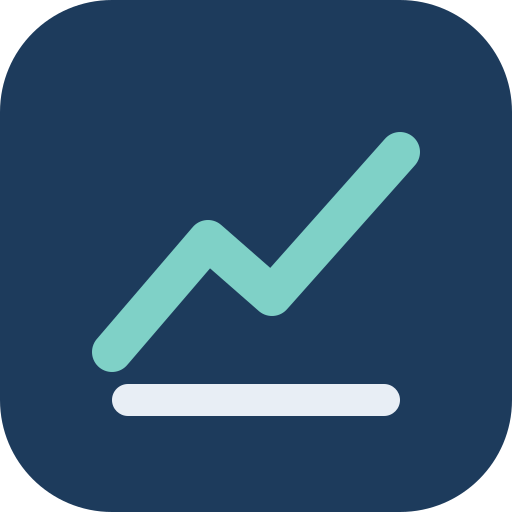
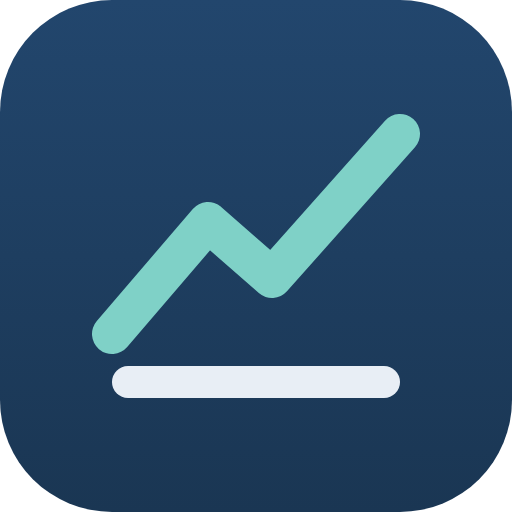
feat(tradeboard): installable app and a phone-friendly portal
The portal is now a PWA: web app manifest (standalone, "Plan Board"),
192/512 icons plus maskable versions inside the safe zone, a full-bleed
apple-touch-icon so iOS doesn't show black corners, and a service
worker that only serves an offline page. It never caches pages or API
responses, so a plan or approval is never shown stale.

On phones the header is one row with a menu button that opens the nav
as a panel (Agents, Account and Sign out were scrolled out of sight),
fields use 16px text so iOS doesn't zoom on focus, small links and
buttons get 36px touch targets, and the header, footer, page edges and
toasts respect the notch and home-indicator safe areas.

Claude-Session: https://claude.ai/code/session_01DzgUvHFYtbF675YjXwu6tH

Changed region(s): [[0.1562, 0.2188, 0.8438, 0.8125]]

diff --git a/projects/tradeboard/services/web/src/style.css b/projects/tradeboard/services/web/src/style.css
@@ -26,7 +26,7 @@
   }
 }
 * { box-sizing: border-box; }
-html { -webkit-text-size-adjust: 100%; }
+html { -webkit-text-size-adjust: 100%; -webkit-tap-highlight-color: transparent; }
 body {
   margin: 0; min-height: 100vh; display: flex; flex-direction: column; color: var(--fg);
   background: radial-gradient(1200px 420px at 50% -120px, var(--bg-glow), transparent 70%), var(--bg);
@@ -45,7 +45,7 @@ time, .kv dd, table.grid td, .meta { font-variant-numeric: tabular-nums; }
 code, pre, .mono { font-family: "SF Mono", ui-monospace, Menlo, monospace; font-size: .88em; }
 code { background: var(--bg2); padding: .12em .4em; border-radius: 6px; overflow-wrap: anywhere; }
 pre.block { background: var(--bg2); border: 1px solid var(--line); border-radius: var(--radius-sm); padding: 12px 14px; overflow-x: auto; white-space: pre-wrap; word-break: break-word; margin: 0 0 10px; }
-.wrap { max-width: 1080px; margin: 0 auto; padding: 0 20px; }
+.wrap { max-width: 1080px; margin: 0 auto; padding: 0 max(20px, env(safe-area-inset-right)) 0 max(20px, env(safe-area-inset-left)); }
 .narrow { max-width: 760px; }
 .muted { color: var(--muted); }
 .small { font-size: 13.5px; }
@@ -63,7 +63,7 @@ pre.block { background: var(--bg2); border: 1px solid var(--line); border-radius
 #app > h1 + p { margin-top: -8px; max-width: 70ch; }
 
 /* Header */
-.site-header { position: sticky; top: 0; z-index: 10; background: color-mix(in srgb, var(--bg) 78%, transparent); backdrop-filter: saturate(180%) blur(16px); -webkit-backdrop-filter: saturate(180%) blur(16px); border-bottom: 1px solid var(--line); }
+.site-header { position: sticky; top: 0; z-index: 10; padding-top: env(safe-area-inset-top); background: color-mix(in srgb, var(--bg) 78%, transparent); backdrop-filter: saturate(180%) blur(16px); -webkit-backdrop-filter: saturate(180%) blur(16px); border-bottom: 1px solid var(--line); }
 .site-header .wrap { display: flex; align-items: center; justify-content: space-between; gap: 6px 16px; min-height: 60px; }
 .brand { display: flex; align-items: center; gap: 10px; font-weight: 720; font-size: 15.5px; letter-spacing: -.01em; color: var(--fg); white-space: nowrap; }
 .brand:hover { text-decoration: none; }
@@ -74,7 +74,7 @@ pre.block { background: var(--bg2); border: 1px solid var(--line); border-radius
 .site-header nav a[aria-current=page] { color: var(--fg); background: var(--card); box-shadow: 0 1px 2px rgb(15 23 42 / .08), 0 0 0 1px var(--line); }
 .site-header nav .link { margin-left: 2px; }
 .link { padding: 4px 8px; }
-.site-footer { border-top: 1px solid var(--line); margin-top: 48px; padding: 18px 0 30px; }
+.site-footer { border-top: 1px solid var(--line); margin-top: 48px; padding: 18px 0 calc(30px + env(safe-area-inset-bottom)); }
 .site-footer .wrap { display: flex; justify-content: space-between; gap: 8px 16px; flex-wrap: wrap; }
 
 /* Surfaces */
@@ -199,7 +199,7 @@ table.grid tbody tr:hover td { background: color-mix(in srgb, var(--bg2) 55%, tr
 /* Overlays */
 dialog { border: 1px solid var(--line); border-radius: 18px; background: var(--card); color: var(--fg); padding: 22px; width: min(520px, calc(100vw - 32px)); box-shadow: 0 24px 64px -12px rgb(0 0 0 / .35); }
 dialog::backdrop { background: rgb(5 10 18 / .45); backdrop-filter: blur(3px); }
-.toast { position: fixed; left: 50%; bottom: 22px; transform: translateX(-50%); background: var(--fg); color: var(--bg); padding: 11px 16px; border-radius: 12px; font-size: 14px; font-weight: 550; z-index: 50; max-width: calc(100vw - 32px); box-shadow: var(--shadow-lift); animation: toast-in .2s ease-out; }
+.toast { position: fixed; left: 50%; bottom: calc(22px + env(safe-area-inset-bottom)); transform: translateX(-50%); background: var(--fg); color: var(--bg); padding: 11px 16px; border-radius: 12px; font-size: 14px; font-weight: 550; z-index: 50; max-width: calc(100vw - 32px); box-shadow: var(--shadow-lift); animation: toast-in .2s ease-out; }
 .toast.bad { background: var(--bad); color: #fff; }
 @keyframes toast-in { from { opacity: 0; transform: translate(-50%, 6px); } }
 .spinner { width: 24px; height: 24px; border-radius: 50%; border: 2.5px solid var(--line-strong); border-top-color: var(--accent); animation: spin 0.8s linear infinite; margin: 40px auto; }
@@ -209,14 +209,26 @@ dialog::backdrop { background: rgb(5 10 18 / .45); backdrop-filter: blur(3px); }
 .tabs { display: flex; gap: 6px; flex-wrap: wrap; margin-bottom: 12px; }
 details > summary { cursor: pointer; color: var(--accent); font-size: 13.5px; font-weight: 550; }
 
-@media (max-width: 860px) {
-  /* One row of nav that scrolls sideways instead of wrapping under the brand. */
-  .site-header .wrap { flex-direction: column; align-items: stretch; gap: 8px; padding-top: 10px; padding-bottom: 10px; }
-  .site-header nav { overflow-x: auto; scrollbar-width: none; -webkit-overflow-scrolling: touch; }
-  .site-header nav::-webkit-scrollbar { display: none; }
+.menu-btn { display: none; }
+@media (max-width: 900px) {
+  /* One compact header row; the nav opens as a panel under it. */
+  .site-header .wrap { min-height: 56px; }
+  .menu-btn { display: inline-flex; align-items: center; justify-content: center; width: 42px; height: 42px; margin-right: -8px; border: 0; border-radius: 10px; background: none; color: var(--fg); cursor: pointer; }
+  .menu-btn:active { background: var(--bg2); }
+  .site-header nav { display: none; position: absolute; left: 0; right: 0; top: 100%; flex-direction: column; gap: 2px; padding: 8px max(12px, env(safe-area-inset-left)) 12px; border-radius: 0; border: 0; border-bottom: 1px solid var(--line); background: var(--card); box-shadow: 0 18px 30px -18px rgb(15 23 42 / .35); }
+  .site-header.open nav { display: flex; }
+  .site-header nav a, .site-header nav .link { padding: 12px 14px; font-size: 16px; border-radius: 10px; text-align: left; margin: 0; }
+  .site-header nav a[aria-current=page] { background: var(--accent-soft); color: var(--accent); box-shadow: none; }
+  /* iOS zooms into fields under 16px. */
+  input, select, textarea { font-size: 16px; }
+  #app > .spread h1 { margin-bottom: 0; }
+}
+@media (pointer: coarse) {
+  .link { min-height: 36px; }
+  .btn.small { min-height: 36px; }
 }
 @media (max-width: 560px) {
-  .wrap { padding: 0 16px; }
+  .wrap { padding: 0 max(16px, env(safe-area-inset-right)) 0 max(16px, env(safe-area-inset-left)); }
   main { padding-top: 20px; }
   .panel, .ticket { padding: 16px; }
   .plans li .panel { padding: 14px 16px; }

diff --git a/projects/tradeboard/services/web/public/offline.html b/projects/tradeboard/services/web/public/offline.html
@@ -1,0 +1,28 @@
+<!doctype html>
+<html lang="en">
+  <head>
+    <meta charset="utf-8" />
+    <meta name="viewport" content="width=device-width, initial-scale=1, viewport-fit=cover" />
+    <meta name="robots" content="noindex, nofollow" />
+    <title>Offline · Trading Plan Board</title>
+    <link rel="icon" type="image/svg+xml" href="/icon.svg" />
+    <style>
+      :root { color-scheme: light dark; --bg: #f4f6f9; --card: #fff; --fg: #0e1726; --muted: #64748b; --line: rgb(15 23 42 / .09); --accent: #2456d6; }
+      @media (prefers-color-scheme: dark) { :root { --bg: #0a0e14; --card: #10161f; --fg: #e8eef6; --muted: #8b9aad; --line: rgb(255 255 255 / .08); --accent: #7ea6ff; } }
+      body { margin: 0; min-height: 100vh; display: grid; place-items: center; padding: 24px; box-sizing: border-box; background: var(--bg); color: var(--fg); font: 15.5px/1.55 -apple-system, BlinkMacSystemFont, "SF Pro Text", system-ui, sans-serif; text-align: center; }
+      .card { max-width: 380px; background: var(--card); border: 1px solid var(--line); border-radius: 18px; padding: 28px 24px; }
+      svg { display: block; margin: 0 auto; }
+      h1 { font-size: 20px; margin: 14px 0 6px; letter-spacing: -.01em; }
+      p { color: var(--muted); margin: 0 0 18px; }
+      button { font: inherit; font-weight: 620; padding: 10px 18px; border-radius: 10px; border: 0; background: var(--accent); color: #fff; cursor: pointer; }
+    </style>
+  </head>
+  <body>
+    <div class="card">
+      <svg width="56" height="56" aria-hidden="true" xmlns="http://www.w3.org/2000/svg" viewBox="0 0 64 64"><defs><linearGradient id="g" x1="0" y1="0" x2="0" y2="1"><stop offset="0" stop-color="#22466d"/><stop offset="1" stop-color="#1a3653"/></linearGradient></defs><rect width="64" height="64" rx="14" fill="url(#g)"/><g transform="translate(32 32) scale(1) translate(-32 -34.25)"><path d="M14 44 26 30l8 7 16-18" fill="none" stroke="#7fd1c7" stroke-width="5" stroke-linecap="round" stroke-linejoin="round"/><rect x="14" y="48" width="36" height="4" rx="2" fill="#e8eef5"/></g></svg>
+      <h1>You're offline</h1>
+      <p>The board only ever shows live plans, so it needs a connection. Your executor keeps running on its own machine.</p>
+      <button type="button" onclick="location.reload()">Try again</button>
+    </div>
+  </body>
+</html>

diff --git a/projects/tradeboard/services/web/src/partials/head.html b/projects/tradeboard/services/web/src/partials/head.html
@@ -1,7 +1,16 @@
 <meta charset="utf-8" />
     <meta name="viewport" content="width=device-width, initial-scale=1, viewport-fit=cover" />
     <meta name="robots" content="noindex, nofollow" />
-    <meta name="theme-color" content="#f5f7fa" media="(prefers-color-scheme: light)" />
-    <meta name="theme-color" content="#0c1218" media="(prefers-color-scheme: dark)" />
+    <meta name="theme-color" content="#f4f6f9" media="(prefers-color-scheme: light)" />
+    <meta name="theme-color" content="#0a0e14" media="(prefers-color-scheme: dark)" />
+    <meta name="application-name" content="Plan Board" />
+    <meta name="apple-mobile-web-app-title" content="Plan Board" />
+    <meta name="mobile-web-app-capable" content="yes" />
+    <meta name="apple-mobile-web-app-capable" content="yes" />
+    <meta name="apple-mobile-web-app-status-bar-style" content="default" />
     <link rel="icon" type="image/svg+xml" href="/icon.svg" />
+    <link rel="icon" type="image/png" sizes="192x192" href="/icon-192.png" />
+    <link rel="apple-touch-icon" href="/apple-touch-icon.png" />
+    <link rel="manifest" href="/manifest.webmanifest" />
+    <script>if ("serviceWorker" in navigator) addEventListener("load", () => navigator.serviceWorker.register("/sw.js").catch(() => {}));</script>
     <link rel="stylesheet" href="/src/style.css" />

diff --git a/projects/tradeboard/services/web/src/ui.ts b/projects/tradeboard/services/web/src/ui.ts
@@ -124,6 +124,16 @@ export function chrome() {
     const target = a.pathname.split("/")[1];
     if (target === here || (here === "plans" && target === "")) a.setAttribute("aria-current", "page");
   });
+  // Phones: the nav folds into a menu under the header.
+  const header = document.querySelector<HTMLElement>(".site-header");
+  const menu = document.querySelector<HTMLButtonElement>("[data-menu]");
+  const setMenu = (open: boolean) => {
+    header?.classList.toggle("open", open);
+    menu?.setAttribute("aria-expanded", String(open));
+  };
+  menu?.addEventListener("click", () => setMenu(!header?.classList.contains("open")));
+  document.addEventListener("keydown", (e) => e.key === "Escape" && setMenu(false));
+  document.addEventListener("click", (e) => header && !header.contains(e.target as Node) && setMenu(false));
   const clock = document.querySelector<HTMLElement>("[data-clock]");
   const tick = () => clock && (clock.textContent = `Now ${ptEt(new Date())}`);
   tick();

diff --git a/projects/tradeboard/services/web/public/sw.js b/projects/tradeboard/services/web/public/sw.js
@@ -1,0 +1,20 @@
+// Installable-app service worker. It never caches pages or API responses: plans, approvals and the
+// executor's state must always be live, so a stale copy is never shown. Offline, a page load gets
+// a small "you're offline" page instead of the browser's error.
+const CACHE = "tradeboard-offline-v1";
+const OFFLINE = "/offline.html";
+
+self.addEventListener("install", (event) => {
+  event.waitUntil(caches.open(CACHE).then((c) => c.add(new Request(OFFLINE, { cache: "reload" }))).then(() => self.skipWaiting()));
+});
+
+self.addEventListener("activate", (event) => {
+  event.waitUntil(
+    caches.keys().then((keys) => Promise.all(keys.filter((k) => k !== CACHE).map((k) => caches.delete(k)))).then(() => self.clients.claim()),
+  );
+});
+
+self.addEventListener("fetch", (event) => {
+  if (event.request.mode !== "navigate") return;
+  event.respondWith(fetch(event.request).catch(() => caches.match(OFFLINE)));
+});

diff --git a/projects/tradeboard/services/web/src/partials/header.html b/projects/tradeboard/services/web/src/partials/header.html
@@ -1,7 +1,10 @@
 <header class="site-header">
       <div class="wrap">
         <a class="brand" href="/"><img src="/icon.svg" alt="" width="26" height="26" />Trading Plan Board</a>
-        <nav aria-label="Main">
+        <button class="menu-btn" type="button" aria-label="Menu" aria-expanded="false" aria-controls="main-nav" data-menu>
+          <svg viewBox="0 0 24 24" width="22" height="22" aria-hidden="true"><path d="M4 7h16M4 12h16M4 17h16" fill="none" stroke="currentColor" stroke-width="2" stroke-linecap="round" /></svg>
+        </button>
+        <nav aria-label="Main" id="main-nav">
           <a href="/">Board</a>
           <a href="/trades/">Trades</a>
           <a href="/executor/">Executor</a>
